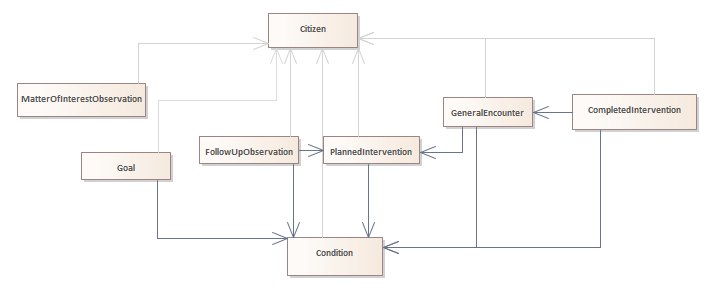
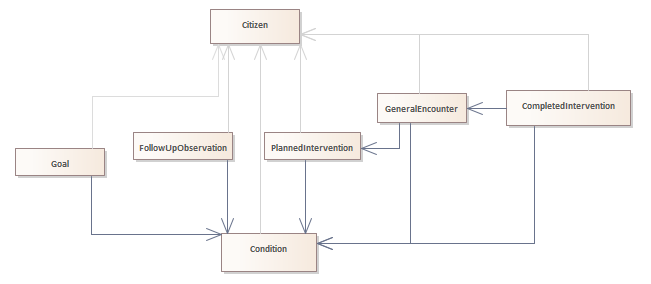
rewritten bundle.entry, made clear the changes to MatterOfInterest and follow-up after simplification

Changed region(s): [[0.0307, 0.3099, 0.9831, 0.9859], [0.1843, 0.0282, 0.9217, 0.2254], [0.0, 0.2817, 0.3687, 0.4225]]

diff --git a/input/pagecontent/index.md b/input/pagecontent/index.md
@@ -9,8 +9,8 @@ The specific changes to the FSIII terminology will not be described here, as the
 * In the transition period, FK Gateway accepts old FSIII displays and legacy codes (brugervendte nøgler). After the transistion, only UUID's and only current titles/displays from FSIII as defined by FK-klassifikation will be accepted in reporting.
 Other changes include:
 * A new encounter called GeneralEncounter has been designed. GeneralEncounter will superseed Encounter after the transition period. GeneralEncounter can be used to report the planned follow-up encounters, as well as completed encounters that have delivered interventions. GeneralEncounter uses more values for the class-attribute. This means that the mode of delivery can be repported e.g. home visit, screen visit etc. GeneralEncounter can reference both conditions (on which it is a follow-up) and interventions (on which it is a delivery). Consequently the Condition profile, will no longer need the FollowUpEncounterExtension. So this will be depricated after the transistion as well.
-* CitizensOwnObservation will be depricated after the transition period.
-* FollowUpObservation will only be used in home care, not in nursing, after the transition.
+* CitizensOwnObservation and MatterOfInterestObservation will be depricated after the transition period.
+* FollowUpObservation will only be used in home care, not in nursing, after the transition. After the transistion, FollowUpObservation will only be allowed to reference Condition in the focus-attribute. Right now, both Condition and PlannedIntervention can be referenced.
 * The citizen profile has two new attributes. Patient.active and Patient.deceased. Patient.active is optional, and used for error-reporting. Patient.deceased is optional in the transition, and is used to state whether the citizen is alive or dead. A warning will be thrown, if data is reported about dead citizens. Patient.deseased will be mandatory after the transition, and reporting about dead citizens will not be accepted and result in an error.
 * Error-reporting documentation have been updated. Read it here [here](./FejlrettelseNotatKLGateway.pdf) (in Danish): 
 
@@ -98,22 +98,10 @@ Free text information about care plans is not part of this reporting.
 - Completed interventions have a valid home care or nursing intervention code according to FSIII (Servicelov/sundhedslovlov indsats)
 - Planned interventions refer to zero or more health care or nursing conditions included in the report as reason for intervention
 
-#### Matter of Interest Observation
-Information about matters of interest for home care or nursing condition areas (FSIII tilstandsområder). It can either be a potential condition, or state that an area is not relevant. A matter of interest observation must contain the condition area, either home care or nursing, and the time of the observation. Matter of Interest Observation is optional to report.
-
-All changes to the matter of interest observations since the last reporting must be included in a new report, including referenced follow-up encounters.
-
-Free text information about area observations is not part of this reporting.
-
-##### Validation
-- Matter of interest observations refer to the citizen included in the report
-- Matter of interest observations have a valid matter of interest code according to FSIII (Funktionsevneområde eller helbredsområde)
-- Matter of interest observations have a timestamp for the observation
-
 #### General Encounters
-GeneralEncounter can be used to report a planned follow up date for Conditions, which is mandatory. It can also be used to report planned follow-up on PlannedInterventions and delivery of PlannedInterventions, which is optional. The encounter references the relevant Conditions and PlannedInterventions.
+GeneralEncounter can be used to report a planned follow-up date for Conditions, which is mandatory. It can also be used to report delivered PlannedInterventions, which is optional. The encounter references the relevant Conditions and PlannedInterventions.
 
-The type of the encounter can be reported as a "follow-up" or a "delivery of an intervention". The encounter references the relevant
+The type of the encounter can be reported as a follow-up or a delivery of an intervention.
 
 The encounter must contain the expected start date or the actual start time.
 
@@ -127,7 +115,7 @@ Free text information about encounters is not part of this reporting.
 - Encounter have a type, that state whether it is a follow-up or a delivery of an intervention.
 
 #### Follow-up Observations
-Information about the outcome of a follow-up encounter. The follow-up observations must contain the coding for the outcome (FSIII resultat af opfølgning) and a reference to one or more condition or intervention about which the observation is made.
+Information about the outcome of a follow-up encounter. The follow-up observations must contain the coding for the outcome (FSIII resultat af opfølgning) and a reference to one or more conditions about which the observation is made.
 
 All changes to the follow-up observations since the last reporting must be included in a new report, including the conditions and interventions referenced by the observations.
 
@@ -135,7 +123,7 @@ Free text information about the follow-up outcome is not part of this reporting.
 
 ##### Validation
 - Follow-up observations refer to the citizen included in the report
-- Follow-up observations refer to one or more conditions or planned interventions included in the report
+- Follow-up observations refer to one or more conditions included in the report
 - Follow-up observations have a timestamp for the observation
 - Follow-up observations have a valid follow-up code according to FSIII (Resultat af opfølgning)
 

diff --git a/input/pagecontent/NursingNew.md b/input/pagecontent/NursingNew.md
@@ -63,7 +63,7 @@ A delivery report is generated containing the citizen, 2 conditions, and a follo
 ### Third Event February 14th, 2021 - Acute team
 
 #### Story
-Akutteamet vurderer ved besøget d. 14/2, at Peter Olsen har god effekt af vejledning i vejrtrækningsteknikkerne og han bruger PEEP-fløjte, og opnår således en mere kontrolleret vejrtrækning. De dokumenterer at området Respiration og Cirkulation ikke længere er relevant for Peter. Akutteamet vurderer at det er på tide, at lade Peter Olsen overgår til hjemmesygeplejen.
+Akutteamet vurderer ved besøget d. 14/2, at Peter Olsen har god effekt af vejledning i vejrtrækningsteknikkerne og han bruger PEEP-fløjte, og opnår således en mere kontrolleret vejrtrækning. De dokumenterer at Peter ikke længere har tilstanden 'Respirationsproblemer'. Akutteamet vurderer at det er på tide, at lade Peter Olsen overgår til hjemmesygeplejen.
 
 Ved samme opfølgning vurderes det, at tilstanden Problemer med mobilitet og bevægelse med den tilhørende indsats Respirationsbehandling bør ændres, og at der er behov for en ny faglig planlægning og disponering. Derfor sættes opfølgningsdatoen til dagen efter, hvor hjemmesygeplejen kan komme og vurdere hvad der videre skal ske.
 
@@ -76,7 +76,7 @@ The following FSIII information is documented in the record system.
 |Problemer med mobilitet og bevægelse|Respirationsbehandling|
 
 #### Reporting
-A delivery report is generated containing the citizen, 2 conditions (one is closed), 1 matter of interest observation (Respiration og Cirkulation marked as not relevant. Note that this is not mandatory), and a follow-up encounter on February 15th for the conditions. The planned intervention is included as well to document that one of the conditions is no longer referenced.
+A delivery report is generated containing the citizen, 2 conditions (one is closed), and a follow-up encounter on February 15th for the conditions. The planned intervention is included as well to document that one of the conditions is no longer referenced.
 
 [DeliveryReport-PeterOlsen-3](Bundle-3c4919f9-aec9-485f-808a-3f9ff6c95786.html)
 
@@ -104,11 +104,7 @@ A delivery report is generated containing the citizen, 1 previous and 1 new cond
 #### Story
 I hjemmesygeplejen noteres det i Peter Olsens journal, at han nu er tilbage i habitualtilstanden med sin kroniske sygdom og har fortsat glæde af PEEP-fløjten, og der er ikke aktuelle tilstande eller indsatser.
 Peter er selv tilfreds, men han har reduceret lungekapacitet grundet exacerbationer.
-Imidlertid har hele forløbet været en ’hård omgang’ og parret (Gerda er meget usikker på om Peter nu også selv kan mærke om det går godt!).
-
-Derfor dokumenteres det på Problemområderne - Psykosociale forhold samt Søvn og hvile, at der bør være fokus på Peter Olsens habitus.
-Han har både i forløbet og efterfølgende umiddelbart virket meget positiv.
-Imidlertid har Peter Olsen ved nogle aftenbesøg oplyst, at han sover skidt om natten og at han har været lidt ked af det hele.
+Imidlertid har hele forløbet været en ’hård omgang’ og parret (Gerda er meget usikker på om Peter nu også selv kan mærke om det går godt!). Derfor dokumenteres det på Problemområderne - Psykosociale forhold samt Søvn og hvile, at der bør være fokus på Peter Olsens habitus. (Dokumentationen på problemområderne indberettes dog ikke efter forenklingen)
 
 #### FSIII Documentation
 The following FSIII information is in the record system.
@@ -119,7 +115,7 @@ The following FSIII information is in the record system.
 |Mobilitet og bevægelse|1 - Lette begrænsninger|0 - Ingen eller ubetydlige begrænsninger|Vedligehold af færdigheder|
 
 #### Reporting
-A delivery report is generated containing the citizen, 1 condition (closing nursing condition), 1 intervention(closing nursing intervention), 2 matter of interest observations (potential conditions, this is not mandatory). The home care condition and intervention are not reported because there are no changes.
+A delivery report is generated containing the citizen, 1 condition (closing nursing condition), 1 intervention(closing nursing intervention). The home care condition and intervention are not reported because there are no changes.
 
 [DeliveryReport-PeterOlsen-5](Bundle-616ce3ef-b7e8-46e1-aefc-ff5bde81b153.html)
 

diff --git a/input/pagecontent/StructureDefinition-klgateway-care-general-encounter-intro.md b/input/pagecontent/StructureDefinition-klgateway-care-general-encounter-intro.md
@@ -1,9 +1,9 @@
 ### Scope and usage
 The Encounter may be instantiated whenever citizens and practitioners meet in a Danish municipality context.
 
-It is important in FSIII to be able to express follow-up encounters. In the planning state, these are documented by setting Encounter.status = "planned", and Encounter.type.coding = "opfølgning". 
+It is mandatory in FSIII to be able to express follow-up encounters on Conditions. In the planning state, these are documented by setting Encounter.status = 'planned', and Encounter.type.coding = 'opfølgning'. 
 
-Encounters which are finished may reported. This can be especially relevant for Encounter.type.coding = "opfølgning" and Encounter.type.coding = "udførelse af planlagt indsats". Use Encounter.status 'finished'.
+Encounters which are finished may also be reported. This can be especially relevant for Encounter.type.coding = 'opfølgning' and Encounter.type.coding = 'udførelse af planlagt indsats'. Use Encounter.status 'finished'. Reporting on finished encounters is optional.
 
 To report errors use status 'entered-in-error'
 
@@ -13,7 +13,7 @@ Encounter.class is mandatory in FHIR. In Danish municipalities the values are us
 * Encounters delivered as a screen visit should be registered as 'Skærmbesøg'.
 * Encounters delivered using a phone should be registered as 'Telefonisk'
 
-The time of the encounter is documented in Encounter.period.start and Encounter.periode.end, and both Encounter.period.start is mandatory. Only planned time is mandatory to report. There is no expectation that the staff update the time if they finish a little earlier or a little later. Time of day is also not mandatory. Encounter.periode.end and time of day is encouraged when reporting on finished Encounters.
+The time of the encounter is documented in Encounter.period.start and Encounter.periode.end, and Encounter.period.start is mandatory. Only planned time is mandatory to report. There is no expectation that the staff update the time if they finish a little earlier or a little later. Time of day is also not mandatory. Encounter.periode.end and time of day is encouraged when reporting on finished Encounters.
 
 Encounters can be related to the PlannedIntervention on which they are a delivery. Use Encounter.extension[basedOnCarePlan]. Encounters can also be related to the condition or conditions which are the reason for having the encounter. This is used for documenting the condition follow-up encounter. Use Encounter.reasonReference
 
